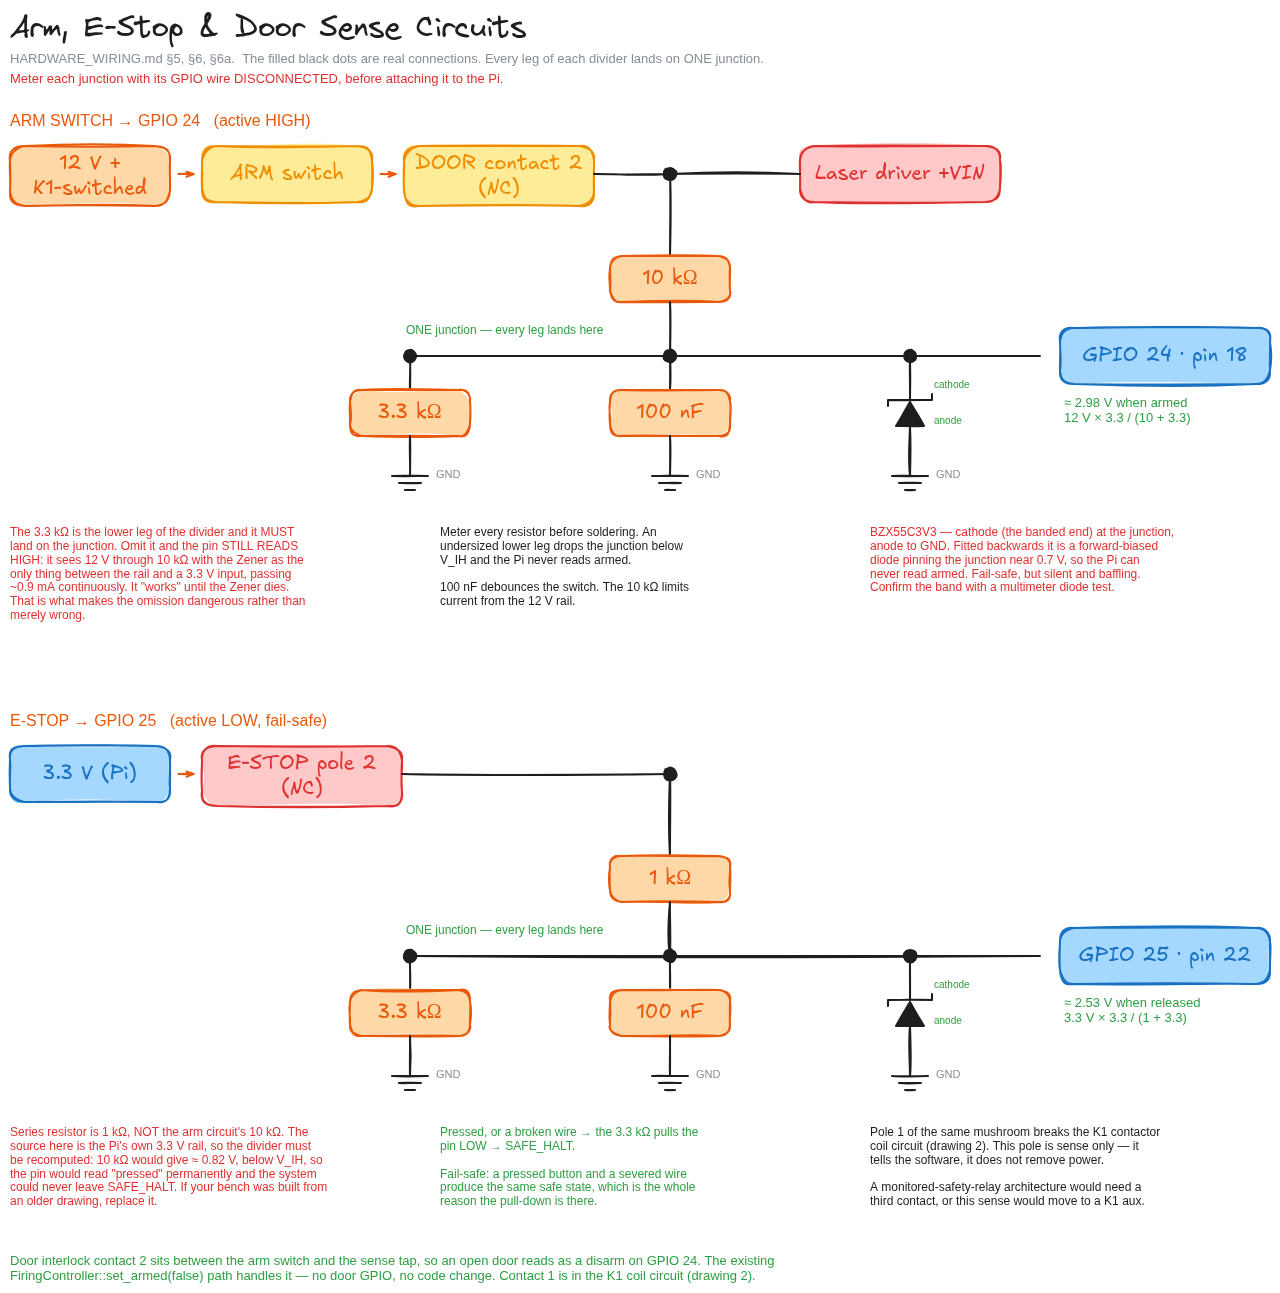
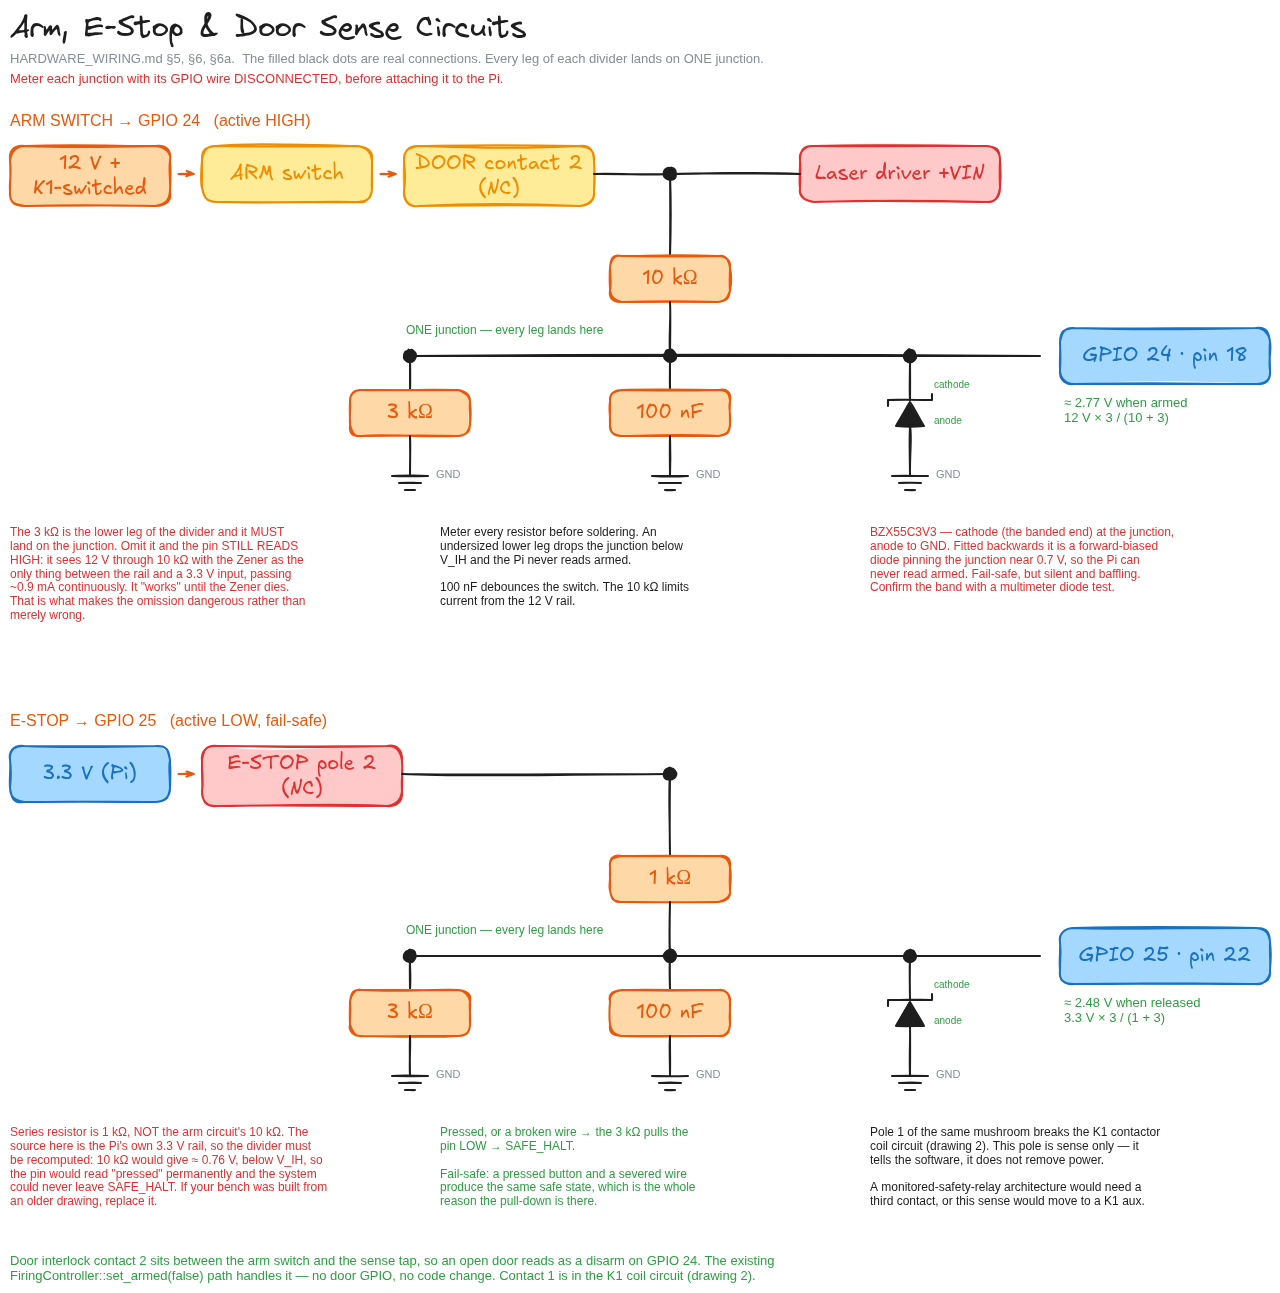
docs: sense dividers use the 3 kOhm on hand, not 3.3 kOhm
The stock actually in the bin is 3 kOhm. Both GPIO sense dividers are
rebuilt around it and every expected reading recomputed: the arm junction
is 2.77 V (was 2.98 V), the E-stop junction 2.48 V (was 2.53 V), and the
wrong-series-resistor failure in section 6 lands at 0.76 V (was 0.82 V).
Updated in the section 2 bill of materials, the section 5 and section 6
schematics and notes, the section 7 GPIO table, the section 15 power-up
sequence, the section 17 stage-5 gate, the pre-flight checklist, the
inventory, AGENTS.md and README.md.

Drawing 3 source and render, and drawing 6 SVG and render, carry the new
values; both PNGs were re-exported at their original dimensions.

Three changes beyond the substitution:

- Section 5 and section 6 now state the floor for the lower leg instead of
  only warning that an undersized value drops the junction below V_IH:
  about 2 kOhm on the arm, about 1.5 kOhm on the E-stop, taking V_IH at a
  conservative 2.0 V. At 3 kOhm the worst case of both resistors at the
  far end of 5 percent and the 12 V rail sagging to 11 V still reads
  2.35 V, so tolerance does not consume the margin.

- Section 5 records that 3 kOhm is deliberate, so a later revision cannot
  restore 3.3 kOhm without also restoring the node voltages everywhere
  they appear. That divergence between the board and the document is the
  failure this note exists to prevent.

- Section 6 claimed the inventory held neither the lower-leg value nor the
[…]

diff --git a/docs/HARDWARE_WIRING.md b/docs/HARDWARE_WIRING.md
@@ -125,7 +125,7 @@ Separate USB-C 5 V ─► Raspberry Pi 5.  NOT on K1: the log, the GPIO 25 sense
 | Laser-path fail-LOW pull-downs | 10 kΩ, 1/2 W — **three**, one per node: (a) translator input, (b) '123/'08 inputs, (c) laser-driver connector (§9.3) | 3 | Value reported on hand; count unverified |
 | Chip-select pull-ups | 10 kΩ, 1/2 W to **3.3 V** on the CE0 and CE1 translator inputs (§8) | 2 | Value reported on hand; count unverified |
 | E-stop series resistor | 1 kΩ, 1/2 W | 1 | On hand; value not yet metered |
-| Sense pull-downs | 3.3 kΩ, 1/2 W | 2 | On hand; value not yet metered |
+| Sense pull-downs | 3 kΩ, 1/2 W | 2 | On hand; value not yet metered |
 | Zener clamps | BZX55C3V3, DO-35, 0.5 W — cathode at the sense junction, anode to GND | 2 | Part type reported; count unverified |
 | Sense/debounce capacitors | 100 nF, 50 V monolithic ceramic | 2 | Value reported; count unverified |
 | Mains terminal blocks | DIN-rail terminal blocks, one block per net: unswitched A/B, switched A/B, PE (§3) | 1 strip | On hand; not installed |
@@ -140,7 +140,7 @@ the counts to shop against; the rows above are the counts per role.
 |-------|-------|-------|
 | 10 kΩ, 1/2 W | **6** | 1 arm series + 3 laser-path fail-LOW (a)(b)(c) + 2 chip-select pull-ups |
 | 100 nF, 50 V ceramic | **8** | 6 IC decoupling (2× MCP4922, 2× AHCT125, 74HC123, SN74HC08) + 2 sense debounce |
-| 3.3 kΩ, 1/2 W | **2** | arm sense divider + E-stop sense pull-down |
+| 3 kΩ, 1/2 W | **2** | arm sense divider + E-stop sense pull-down |
 | 1 kΩ, 1/2 W | **1** | E-stop series |
 | BZX55C3V3 | **2** | one clamp per sense junction |
 | 10 µF | **1** | 5 V rail bulk |
@@ -350,7 +350,7 @@ before assigning it this role.
                                                                           │
                               ┌───────────────────── 10 kΩ ◄──────────────┘
                               │
-              GPIO 24 ◄───────┼── junction ──┬── 3.3 kΩ ─────► GND
+              GPIO 24 ◄───────┼── junction ──┬── 3 kΩ ───────► GND
             (RPi pin 18)      │              ├── 100 nF ─────► GND
                               └──────────────┴── BZX55C3V3 ──► GND
                                                  banded (cathode) end at the
@@ -360,16 +360,25 @@ before assigning it this role.
 ### Component notes
 
 - **10 kΩ**: current-limiting series resistor from the 12 V arm signal.
-- **3.3 kΩ**: lower leg of the voltage divider, **connected to the same junction**
+- **3 kΩ**: lower leg of the voltage divider, **connected to the same junction**
   as the 10 kΩ, the 100 nF, the Zener and the GPIO. GPIO 24 sees
-  `12 V × 3.3 kΩ / (10 kΩ + 3.3 kΩ) ≈ 2.98 V` — a valid 3.3 V logic HIGH.
+  `12 V × 3 kΩ / (10 kΩ + 3 kΩ) ≈ 2.77 V` — a valid 3.3 V logic HIGH.
   Without it there is no divider: the GPIO pin sees 12 V through 10 kΩ with the
   Zener as the only thing standing between the rail and a 3.3 V input, drawing
   about 0.9 mA through it continuously. **It still reads HIGH**, which is what
   makes the omission dangerous — the circuit appears to work until the Zener
   fails.
 - **Meter the lower leg before soldering it.** An undersized value drops the
-  junction below `V_IH`, so the Pi could never observe an armed state.
+  junction below `V_IH`, so the Pi could never observe an armed state. Taking
+  `V_IH` at a conservative 2.0 V, the floor for this leg is ≈ 2 kΩ. At 3 kΩ the
+  worst-case stack — both resistors at the far end of ±5% *and* the 12 V rail
+  sagging to 11 V — still lands at ≈ 2.35 V, so the margin is not consumed by
+  tolerance. Anything at or below 2 kΩ is a no-go, whatever the bin says.
+- **The value is 3 kΩ, not 3.3 kΩ, and that is deliberate.** Earlier revisions of
+  this document specified 3.3 kΩ; the stock actually on hand is 3 kΩ, the
+  computed node voltages above are the ones the board produces, and every
+  expected reading in §6, §15 and §17 was recomputed to match. Do not "restore"
+  3.3 kΩ without also restoring 2.98 V / 2.53 V everywhere they appear.
 - **100 nF**: filters switch bounce and high-frequency noise.
 - **BZX55C3V3**: **cathode (the banded end) at the junction, anode at GND.** It
   clamps transients above ~3.3 V. Fitted backwards it is a forward-biased diode
@@ -399,15 +408,15 @@ verify its contact blocks first.
 ```
 3.3 V (RPi) ──► [E-Stop pole 2, NC] ──► 1 kΩ ──┐
                                                │
-              GPIO 25 ◄──────── junction ──────┼── 3.3 kΩ ─────► GND
+              GPIO 25 ◄──────── junction ──────┼── 3 kΩ ───────► GND
             (RPi pin 22)            │          ├── 100 nF ─────► GND
                                    └──────────┴── BZX55C3V3 ──► GND
                                                   banded (cathode) end at the
                                                   junction, anode at GND
 ```
 
-All four legs — the 1 kΩ from the E-stop contact, the 3.3 kΩ, the 100 nF, the
-Zener and the wire to GPIO 25 — meet at **one** junction. The 3.3 kΩ is what
+All four legs — the 1 kΩ from the E-stop contact, the 3 kΩ, the 100 nF, the
+Zener and the wire to GPIO 25 — meet at **one** junction. The 3 kΩ is what
 pulls the pin LOW when the contact opens; wired anywhere else there is no
 pull-down and the fail-safe property in the table below does not exist.
 
@@ -415,23 +424,27 @@ pull-down and the fail-safe property in the table below does not exist.
 
 - **1 kΩ** series (NOT 10 kΩ): the source here is the Pi's own 3.3 V rail, not
   the 12 V of the arm-switch circuit, so the divider must be recomputed.
-  Released-state node voltage: `3.3 V × 3.3 kΩ / (1 kΩ + 3.3 kΩ) ≈ 2.53 V` — a
+  Released-state node voltage: `3.3 V × 3 kΩ / (1 kΩ + 3 kΩ) ≈ 2.48 V` — a
   solid 3.3 V-logic HIGH. An earlier revision of this drawing copied the arm
-  circuit's 10 kΩ, which from 3.3 V yields only ~0.82 V — below V_IH, so the
+  circuit's 10 kΩ, which from 3.3 V yields only ~0.76 V — below V_IH, so the
   input would read "pressed" permanently and the system could never leave the
   E-stop state. If your bench was built from that revision, replace the series
   resistor.
-- **3.3 kΩ**: pull-down that forces LOW when the contact opens or a wire breaks.
-- The reported inventory contains neither this 3.3 kΩ value nor the 1 kΩ series
-  value, and the stocked 10 kΩ is not a substitute for either. Obtain and
-  meter-check the specified parts before building this circuit.
+- **3 kΩ**: pull-down that forces LOW when the contact opens or a wire breaks.
+  Unlike the series leg this one has room: taking `V_IH` at a conservative
+  2.0 V, the floor here is ≈ 1.5 kΩ.
+- Both values are on hand but **neither has been metered**, and the stocked
+  10 kΩ substitutes for neither. Meter both before fitting, and compute the
+  expected junction voltage from the values you actually read rather than from
+  the nominal — that turns the bench check below into a real test of the
+  divider instead of a comparison against a number from a table.
 - **100 nF** + **BZX55C3V3**: debounce and transient clamp, as in the arm
   circuit. **Cathode (banded end) at the junction, anode at GND.** Reversed, it
   forward-clamps the junction near 0.7 V — below `V_IH` — so the pin reads
   "pressed" permanently and the system can never leave `SAFE_HALT`.
 - **Meter both sense networks with the GPIO wire disconnected**, before either is
-  attached to the Pi header. Arm switch OFF/ON must give ≈ 0 V / 2.98 V; E-stop
-  pressed/released must give ≈ 0 V / 2.53 V. A wiring error found with a meter
+  attached to the Pi header. Arm switch OFF/ON must give ≈ 0 V / 2.77 V; E-stop
+  pressed/released must give ≈ 0 V / 2.48 V. A wiring error found with a meter
   costs a minute; the same error found by the Pi can cost a GPIO pin.
 
 ### Operation
@@ -512,7 +525,7 @@ interlock does not obstruct the procedure it protects.
 | Function | GPIO | Pin | Direction | Voltage | Destination |
 |----------|------|-----|-----------|---------|-------------|
 | Laser TTL | GPIO 18 | 12 | Output | 3.3 V → SN74AHCT125N **#2** ch1 (§9) | 74HC123/74HC08 backstop, then verified laser TTL input |
-| Arm switch sense | GPIO 24 | 18 | Input | 2.98 V HIGH | Arm switch voltage divider |
+| Arm switch sense | GPIO 24 | 18 | Input | 2.77 V HIGH | Arm switch voltage divider |
 | E-Stop sense | GPIO 25 | 22 | Input | ≈2.5 V HIGH | E-Stop NC + pull-down |
 | SPI0 MOSI | GPIO 10 | 19 | Output | 3.3 V → SN74AHCT125N **#1** ch1 → 5 V | Both MCP4922 SDI (pin 5) |
 | SPI0 MISO | GPIO 9 | 21 | Input | 3.3 V | Not used by MCP4922 (write-only) |
@@ -1235,7 +1248,7 @@ the supplies are off until someone presses START, and START is the last step.
 4. With the hazardous supplies still off, confirm with a meter:
    - laser-driver TTL connector: **LOW**
    - all four DAC outputs: **≈ 2.5 V** (against the measured rail, §8)
-   - GPIO 25 ≈ 2.53 V, GPIO 24 ≈ 0 V
+   - GPIO 25 ≈ 2.48 V, GPIO 24 ≈ 0 V
 5. Start the application. Verify both camera streams open and that
    `[CONFIG] Aborting` does not appear.
 6. Put on safety eyewear. Confirm the enclosure is closed and the beam path is
@@ -1336,7 +1349,7 @@ it is a separate work package for a qualified person — but it must not be
 | **2** | **Pi alone.** USB-C only. Toggle GPIO 18/24/25, watch edges with `gpiomon`. No 5 V rail, nothing else connected. | Every pin behaves; `gpiomon` timestamps are sane |
 | **3** | **DAC island.** 5 V logic rail, AHCT125 #1, both MCP4922s **including `/LDAC` to GND and `/SHDN` to +5 V**, CE0/CE1 pull-ups. | All four DAC outputs ≈ 2.5 V; the 5 V rail measured at the DAC pin under load and written into `dac_reference_voltage` (§8) |
 | **4** | **Pulse-duration backstop.** AHCT125 #2, 74HC123 with the **220 kΩ on pin 15**, SN74HC08N, pull-downs (a)(b)(c). Instrumentation and dummy load only — no laser of any class. A scope, a logic analyser or the Pi's own `gpiomon` all work; the method is in §11a. | Every checkbox in §11a passes and **the measured period is recorded** |
-| **5** | **Sense networks.** Arm and E-stop dividers, Zeners with the band at the junction, door-interlock contacts. Meter each node **with the GPIO wire disconnected**, then attach. | ≈ 0 V / 2.98 V on arm OFF/ON; ≈ 0 V / 2.53 V on E-stop pressed/released (§5, §6) |
+| **5** | **Sense networks.** Arm and E-stop dividers, Zeners with the band at the junction, door-interlock contacts. Meter each node **with the GPIO wire disconnected**, then attach. | ≈ 0 V / 2.77 V on arm OFF/ON; ≈ 0 V / 2.48 V on E-stop pressed/released (§5, §6) |
 | **6** | **Mains package.** Isolator, overcurrent protection, RCD, K1, START/STOP, terminal blocks, PE bonding. Designed, built and inspected by a qualified person. | Latching verified: E-stop drops K1; **releasing it does nothing**; only START restores. Both DC rails measured at 0 V with the E-stop pressed (§3) |
 | **7** | **DC supplies, unloaded.** Energise ±15 V and 12 V with nothing connected. | +15 V, 0 V, −15 V and 12 V all within tolerance; COM bonded to common ground (§13) |
 | **8** | **Galvo driver, no head.** Supplies, ground, and the analog inputs per the topology verified at stage 0. | Commanded DAC pairs produce the expected differential at `IN+`/`IN−` with no clipping or offset (§10, §14) |

diff --git a/docs/HARDWARE_INVENTORY.md b/docs/HARDWARE_INVENTORY.md
@@ -39,7 +39,7 @@ the reported **2.5 W** module only.
 | Level translation | 2 | Marked `SN74AHCT125N`, PDIP-14 quad bus buffer with 3-state outputs — package #1 for the four SPI signals, package #2 for GPIO 18 alone. Sold under the **Editbar** marketplace brand (Zhengzhou Yuanzhang Trading Co., seller SKU **ED1175**); the package logo is not TI's and **no die manufacturer is identified**. `SN…N` is a TI nomenclature, so the marking is a claim by a party that did not make the part |
 | Monostable | 1 | **Hitachi HD74HC123P**, DIP-16, date code 9K06 — identified from the package marking 2026-08-03. Marked without the `A` of the `HD74HC123A` datasheet revision obtained |
 | AND gate | 1 | SN74HC08N, DIP-14, quad 2-input AND gate |
-| Resistors | count not recorded | Carbon film, 1/2 W: 220 kΩ, 10 kΩ, 3.3 kΩ and 1 kΩ values |
+| Resistors | count not recorded | Carbon film, 1/2 W: 220 kΩ, 10 kΩ, 3 kΩ and 1 kΩ values |
 | Capacitors | count not recorded | 50 V monolithic ceramic: 1 µF and 100 nF values, plus a 10 µF rail bulk capacitor |
 | Zener diode | count not recorded | BZX55C3V3, DO-35 axial, 0.5 W, 3.3 V |
 | Arm control | 1 | Lever switch; contact arrangement and DC current rating not recorded |
@@ -92,7 +92,7 @@ believe it is there and working.
 | **Galvo-driver analog input topology and common-mode range are unverified** | This is the assumption with the widest blast radius in the design: `HARDWARE_WIRING.md` §14, `CoordinateMapper`, `DifferentialGalvoDriver` and the choice of two MCP4922s all rest on it. Because the DAC channels are complementary unipolar 0–5 V outputs, the pair presents a permanent **2.5 V common mode**. "±5 V analog input at 0.33 V/°" in a seller listing establishes neither that the inputs are a genuine differential pair, nor that 2.5 V is inside the permitted common-mode range, nor that ±5 V is a *differential* rating rather than per-input-to-ground. If any is wrong, every commanded angle is wrong by a scale or offset error — a silent aiming fault. | Obtain the driver's own manual or schematic and confirm all three points before connecting the DACs. Re-confirm empirically during calibration: command a known angle and measure the actual deflection. Do not resolve this by trial with any laser connected. |
 | Test-laser electrical details are unknown | A bare 12 mm, 5 mW module may not accept the working laser’s 3-pin TTL interface and therefore may not test the real gating chain. | Record its wavelength, labelled class, supply voltage, current, pinout, and TTL behaviour. Use it for gated alignment only if electrically compatible; otherwise use a suitably classified TTL-controlled alignment module. |
 | Working-laser 3-pin pinout and TTL levels are unknown | “TTL/PWM” in a seller listing does not establish pin order, active polarity, input thresholds, or safe power-up state. **Polarity is the critical unknown:** every fail-LOW measure in `HARDWARE_WIRING.md` §9.3 and §11a assumes LOW = off. On an active-LOW input the whole chain inverts and all three pull-downs become a *fire* command — the pull-downs would have to become pull-ups and the AND gate would have to become a different gate. | Obtain the module/driver pinout and confirm the input is **active HIGH** from its own documentation. Verify with the Class 4 optical output disconnected or blocked by an appropriate non-optical test load. Do not establish polarity experimentally with the Class 4 module connected. The project firing path must remain single-level TTL, never PWM. |
-| Passive-component quantities/tolerances are still unmeasured | The design needs a timing R/C, per-IC supply decoupling, rail bulk decoupling, two debounce capacitors, two Zener clamps, three laser-path fail-LOW pull-downs, and two chip-select pull-ups. The actual 74HC123 pulse width depends on the fitted R/C values; the vendor is now known (Hitachi, `t_W = R·C`), which puts the nominal at ≈220 ms. | Count and meter-check parts against the running totals in `HARDWARE_WIRING.md` §2: **6 × 10 kΩ**, **8 × 100 nF**, 2 × 3.3 kΩ, 1 × 1 kΩ, 2 × BZX55C3V3, 1 × 10 µF, 1 × 220 kΩ, 1 × 1 µF. Fit 100 nF at each IC, and measure the one-shot period before connecting either laser. |
+| Passive-component quantities/tolerances are still unmeasured | The design needs a timing R/C, per-IC supply decoupling, rail bulk decoupling, two debounce capacitors, two Zener clamps, three laser-path fail-LOW pull-downs, and two chip-select pull-ups. The actual 74HC123 pulse width depends on the fitted R/C values; the vendor is now known (Hitachi, `t_W = R·C`), which puts the nominal at ≈220 ms. | Count and meter-check parts against the running totals in `HARDWARE_WIRING.md` §2: **6 × 10 kΩ**, **8 × 100 nF**, 2 × 3 kΩ, 1 × 1 kΩ, 2 × BZX55C3V3, 1 × 10 µF, 1 × 220 kΩ, 1 × 1 µF. Fit 100 nF at each IC, and measure the one-shot period before connecting either laser. |
 
 WAGO 221-413 connectors are three-conductor splicing connectors, not barriers
 between unrelated circuits. Use a separate connector for each of Live, Neutral,

diff --git a/AGENTS.md b/AGENTS.md
@@ -32,7 +32,7 @@ This project implements a stereoscopic laser-targeting system for in-flight pest
 | Arm switch | Lever switch; topology/DC rating unverified | Must switch laser-driver 12 V power and provide active-HIGH GPIO 24 sense |
 | E-stop | Mushroom button; pole arrangement/contact ratings unverified | Two independent NC contacts: pole 1 in the K1 coil circuit, pole 2 for GPIO 25 (active LOW). A monitored-safety-relay architecture would need a third |
 | Zener diodes | BZX55C3V3, DO-35, 0.5 W; count unverified | Circuit requires 2 for arm/E-stop GPIO clamps — **cathode at the sense junction, anode to GND**; reversed, each forward-clamps its node near 0.7 V |
-| Resistors | 1/2 W carbon film: 220 kΩ, 10 kΩ, 3.3 kΩ, 1 kΩ; all on hand, counts and values unmetered | **6 × 10 kΩ are needed**: 1 arm series, 3 laser-path fail-LOW, 2 chip-select pull-ups. 2 × 3.3 kΩ and 1 × 1 kΩ serve the arm/E-stop sense networks |
+| Resistors | 1/2 W carbon film: 220 kΩ, 10 kΩ, 3 kΩ, 1 kΩ; all on hand, counts and values unmetered | **6 × 10 kΩ are needed**: 1 arm series, 3 laser-path fail-LOW, 2 chip-select pull-ups. 2 × 3 kΩ and 1 × 1 kΩ serve the arm/E-stop sense networks (arm junction ≈ 2.77 V, E-stop ≈ 2.48 V) |
 | Capacitors | 50 V monolithic ceramic: 1 µF and 100 nF; counts unverified | Timing, per-IC decoupling, and input debounce; verify sufficient quantity |
 | Wiring connectors | WAGO 221-413, 3-conductor, max 4 mm²; count unverified | Power/signal distribution; one enclosed connector per electrical net |
 

diff --git a/docs/PRE_FLIGHT_CHECKLIST.md b/docs/PRE_FLIGHT_CHECKLIST.md
@@ -91,8 +91,8 @@ verify the logic, backstop and sense circuits first; the mains package is stage 
   switches 12 V to the laser driver **and** feeds the GPIO 24 sensing circuit.
 - [ ] A correctly rated bipolar ±15 VDC supply is installed for the galvo
   driver. The Mean Well LRS-50-12 remains dedicated to the 12 V laser branch.
-- [ ] The GPIO sense networks contain meter-verified **3.3 kΩ** (×2), 10 kΩ, and
-  **1 kΩ** resistors, and in each network the 3.3 kΩ, the 100 nF, the Zener and the
+- [ ] The GPIO sense networks contain meter-verified **3 kΩ** (×2), 10 kΩ, and
+  **1 kΩ** resistors, and in each network the 3 kΩ, the 100 nF, the Zener and the
   GPIO wire all meet at **one junction** with the series resistor. Without that
   connection there is no divider — and the pin still reads HIGH, so the omission is
   silent.
@@ -130,7 +130,7 @@ verify the logic, backstop and sense circuits first; the mains package is stage 
     from 3.3 V — replace it with 1 kΩ per `docs/HARDWARE_WIRING.md` §6.
   - E-Stop pressed → LOW.
   - Arm switch OFF → LOW.
-  - Arm switch ON → ≈ 2.98 V (HIGH).
+  - Arm switch ON → ≈ 2.77 V (HIGH).
 - [ ] **74HC123 pulse-duration backstop is wired and bench-verified** (see `docs/HARDWARE_WIRING.md` §11a). This is the only enforcer of the pulse-duration bound that is independent of the control thread:
   - The **220 kΩ is on pin 15** (`1Rext/Cext`) and the 1 µF is between pins 14 and
     15. Both channels use the same order — `6 = 2Cext, 7 = 2Rext/Cext` and

diff --git a/README.md b/README.md
@@ -29,7 +29,7 @@ parts.
 | Door interlock | Switch with 2 independent NC contacts, positive/direct opening | On hand; contact arrangement unconfirmed |
 | Switches | Lever switch + mushroom button | On hand; contact topology and ratings remain unverified |
 | Input protection | BZX55C3V3 0.5 W Zeners; 100 nF 50 V monolithic ceramic capacitors | On hand; quantities not yet recorded |
-| Resistor stock | 1/2 W carbon film: 220 kΩ, 10 kΩ, 3.3 kΩ, 1 kΩ | On hand; quantities and values not yet metered. **6× 10 kΩ** are needed |
+| Resistor stock | 1/2 W carbon film: 220 kΩ, 10 kΩ, 3 kΩ, 1 kΩ | On hand; quantities and values not yet metered. **6× 10 kΩ** are needed |
 | Wiring connectors | WAGO 221-413, 3-conductor | On hand; splicing connectors — not terminal blocks, and never a barrier between circuits |
 
 **Every part is on hand; none of it is verified.** No switch contact has been

diff --git a/docs/diagrams/README.md b/docs/diagrams/README.md
@@ -23,7 +23,7 @@ orient with the overview, then work inward.
   [§17](../HARDWARE_WIRING.md#17-build--bring-up-order); stages 0–5 need no mains
   at all.
 - **A filled black dot is a connection. A crossing without a dot is not.** This
-  matters most in drawing 3: an earlier revision left the 3.3 kΩ divider legs
+  matters most in drawing 3: an earlier revision left the 3 kΩ divider legs
   unconnected, and built that way the GPIO pin still reads HIGH — so the fault is
   invisible until the Zener fails.
 - Pin numbers are PDIP throughout, and are annotated in the drawings only so they
